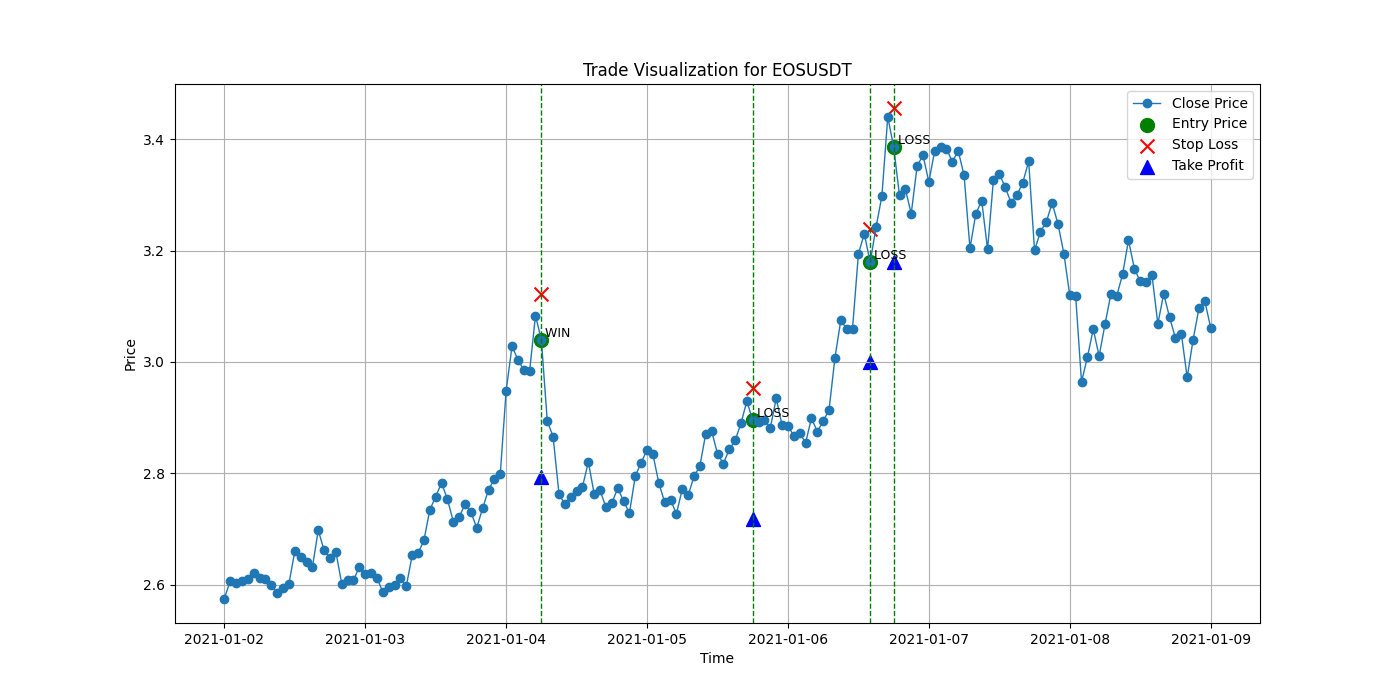
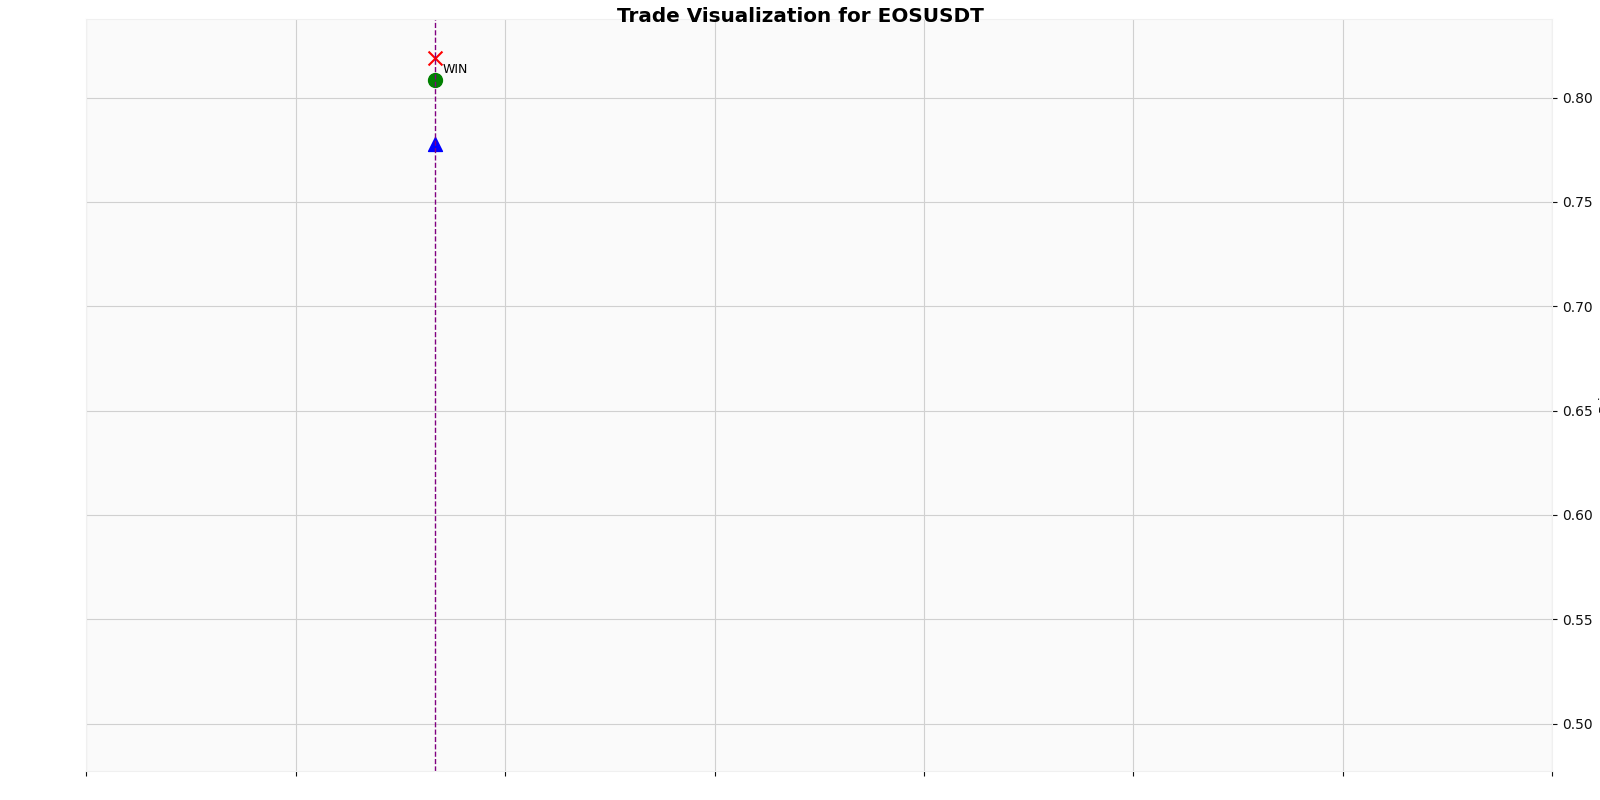
safe point working on entry accuracy - working

diff --git a/strategy_fakeout/backtesting.py b/strategy_fakeout/backtesting.py
@@ -44,17 +44,9 @@ def calculate_exit_profit_short(entry_price, exit_price):
     return (adjusted_entry - adjusted_exit) / adjusted_entry
 
 def backtest_strategy(symbol, timeframe=OHLCV_TIMEFRAME, days=7, client=None, use_random_date=False, swing_lookback=30):
-    # Determine backtesting date range.
-    if use_random_date:
-        start_random = datetime(2021, 1, 1)
-        end_random = datetime(2022, 1, 1)
-        random_seconds = random.randint(0, int((end_random - start_random).total_seconds()))
-        random_end = start_random + timedelta(seconds=random_seconds)
-        end_date = random_end
-        start_date = end_date - timedelta(days=days)
-    else:
-        end_date = datetime.now()
-        start_date = end_date - timedelta(days=days)
+    # Determine backtesting date range using the current date
+    end_date = datetime.now()
+    start_date = end_date - timedelta(days=days)
     
     # Fetch lower timeframe klines.
     klines = client.get_historical_klines(
@@ -181,11 +173,19 @@ def analyze_results(signals, symbol):
     df = pd.DataFrame(signals)
     total_trades = len(df)
     win_rate = len(df[df["outcome"]=="WIN"]) / total_trades * 100
+    # Convert entry_time and exit_time from naive UTC to UTC+11
+    from datetime import timezone, timedelta
+    utc_plus_11 = timezone(timedelta(hours=11))
+    # Assuming the timestamps are in UTC, we localize and then convert
+    df["entry_time"] = pd.to_datetime(df["entry_time"]).dt.tz_localize('UTC').dt.tz_convert(utc_plus_11)
+    df["exit_time"] = pd.to_datetime(df["exit_time"]).dt.tz_localize('UTC').dt.tz_convert(utc_plus_11)
+    
     print(f"--- {symbol} ---")
     print(f"Total Trades: {total_trades}")
     print(f"Win Rate: {win_rate:.2f}%")
     df["profit_pct"] = (df["profit"] * 100).round(2)
-    print(df[["entry_time", "entry", "stop_loss", "take_profit", "exit_time", "exit_price", "profit_pct", "outcome"]])
+    # Include the 'side' column in the printed output
+    print(df[["side", "entry_time", "entry", "stop_loss", "take_profit", "exit_time", "exit_price", "profit_pct", "outcome"]])
 
 def analyze_aggregated_results(all_signals, initial_capital=1000, days=30):
     if not all_signals:
@@ -193,97 +193,46 @@ def analyze_aggregated_results(all_signals, initial_capital=1000, days=30):
         return
     try:
         import config
+        print("\n")  # Added blank line for separation
         print("=== BACKTESTER SETTINGS ===")
         print(f"Timeframe used             : {config.OHLCV_TIMEFRAME}")
-        print(f"Long Take Profit Target    : {config.LONG_TAKE_PROFIT_MULTIPLIER}")
-        print(f"Short Take Profit Target   : {config.SHORT_TAKE_PROFIT_MULTIPLIER}")
-        print(f"Long Stop Loss Multiplier  : {config.LONG_STOP_LOSS_MULTIPLIER}")
-        print(f"Short Stop Loss Multiplier : {config.SHORT_STOP_LOSS_MULTIPLIER}")
-        print(f"Futures Maker Fee         : {config.FUTURES_MAKER_FEE}")
-        print(f"Futures Taker Fee         : {config.FUTURES_TAKER_FEE}")
-        print(f"Slippage Rate              : {config.SLIPPAGE_RATE}")
-        print("="*30)
-        print("=== TECHNICAL SETTINGS ===")
-        print(f"EMA Short Period   : {config.EMA_SHORT}")
-        print(f"EMA Long Period    : {config.EMA_LONG}")
-        print(f"ATR Period         : {config.ATR_PERIOD}")
-        print(f"Minimum ATR %      : {config.MIN_ATR_PCT}")
-        print(f"Trend Strength Th. : {config.TREND_STRENGTH_THRESHOLD}")
         print(f"Backtesting period (days)  : {days}")
         print("="*30)
+        
         df = pd.DataFrame(all_signals)
-        df['profit_pct'] = (df['profit'] * 100).round(2)
-        if 'initial_stop_loss' in df.columns:
-            df.rename(columns={'initial_stop_loss': 'SL'}, inplace=True)
-        elif 'stop_loss' in df.columns:
+        df["profit_pct"] = (df["profit"] * 100).round(2)
+        
+        # Rename columns for consistency
+        if 'stop_loss' in df.columns:
             df.rename(columns={'stop_loss': 'SL'}, inplace=True)
         if 'take_profit' in df.columns:
             df.rename(columns={'take_profit': 'TP'}, inplace=True)
+        if 'entry' in df.columns:
+            df.rename(columns={'entry': 'entry_price'}, inplace=True)
+        
+        # Determine outcome and risk-reward ratio
         df['outcome'] = np.where(df['profit'] > 0, 'WIN', np.where(df['profit'] < 0, 'LOSS', 'BREAKEVEN'))
-        df['risk_reward'] = df.apply(
-            lambda row: (row['TP']-row['entry_price'])/(row['entry_price']-row['SL']) if row['entry_price'] > row['SL'] else (row['entry_price']-row['TP'])/(row['SL']-row['entry_price']),
-            axis=1
-        )
+        df['risk_reward'] = df.apply(lambda row: (row['TP']-row['entry_price'])/(row['entry_price']-row['SL']) 
+                                     if row['entry_price'] > row['SL'] else (row['entry_price']-row['TP'])/(row['SL']-row['entry_price']), axis=1)
+        
         total_trades = len(df)
-        win_trades = df[df['outcome'] == 'WIN']
-        loss_trades = df[df['outcome'] == 'LOSS']
-        avg_win = win_trades['profit_pct'].mean() if not win_trades.empty else 0
-        avg_loss = loss_trades['profit_pct'].mean() if not loss_trades.empty else 0
-        risk_reward = abs(avg_win / avg_loss) if avg_loss != 0 else np.inf
-        total_wins = df[df['outcome'] == 'WIN']['profit'].sum()
-        total_losses = abs(df[df['outcome'] == 'LOSS']['profit'].sum())
-        print(f"Total Wins Sum: {total_wins:.2f}%")  # Debug output
-        print(f"Total Losses Sum: {total_losses:.2f}%")  # Debug output
-        profit_factor = total_wins / total_losses if total_losses > 0 else np.inf
-        max_drawdown = df['drawdown'].min() if 'drawdown' in df.columns else 0
-        final_capital = simulate_capital(all_signals, initial_capital=initial_capital)
-        print("=== Aggregated Report Across All Symbols ===")
-        print(f"Total Trades: {total_trades}")
-        print(f"Win Rate: {len(win_trades) / total_trades:.1%}")
-        print(f"Avg Win: {avg_win:.2f}% | Avg Loss: {avg_loss:.2f}%")
-        print(f"Profit Factor: {profit_factor:.2f}")
-        print(f"Max Drawdown: {max_drawdown * 100:.2f}%")
-        print(f"\nStarting Capital: ${initial_capital}")
-        print(f"Final Capital: ${final_capital:.2f}")
+        win_rate = len(df[df['outcome'] == 'WIN']) / total_trades * 100
         long_trades = len(df[df['side'] == 'long'])
         short_trades = len(df[df['side'] == 'short'])
-        print(f"Long Trades: {long_trades} | Short Trades: {short_trades}")
-        capital_change = final_capital - initial_capital
-        print(f"Capital Change: ${capital_change:.2f}")
-        wins_count = len(df[df['outcome'] == 'WIN'])
-        losses_count = len(df[df['outcome'] == 'LOSS'])
-        print(f"Total Wins: {wins_count}")
-        print(f"Total Losses: {losses_count}")
+        
+        final_capital = simulate_capital(all_signals, initial_capital=initial_capital)
+        
+        print("=== Aggregated Report ===")
+        print(f"Total Trades: {total_trades}")
+        print(f"Win Rate: {win_rate:.2f}%")
+        print(f"Long Trades: {long_trades}, Short Trades: {short_trades}")
+        print(f"Simulation: Starting Capital: ${initial_capital}, Final Capital: ${final_capital:.2f}")
+        
         best_trade = df.loc[df['profit_pct'].idxmax()]
-        print(f"Best Trade: {best_trade['symbol']} trade on {best_trade['entry_time']} with profit {best_trade['profit_pct']:.2f}% (entry: {best_trade['entry_price']}, exit: {best_trade['exit_price']})")
-        pair_profit = df.groupby('symbol')['profit'].sum()
-        best_pair = pair_profit.idxmax()
-        best_pair_profit = pair_profit.max() * 100
-        print(f"Best Performing Pair: {best_pair} with aggregated profit of {best_pair_profit:.2f}%")
-        df['entry_time'] = pd.to_datetime(df['entry_time'])
-        df['exit_time'] = pd.to_datetime(df['exit_time'])
-        df['trade_duration'] = (df['exit_time'] - df['entry_time']).dt.total_seconds() / 60
-        df['trade_duration'] = df['trade_duration'].apply(lambda x: max(x, 5))  # Minimum 1 bar duration
-        avg_duration = df['trade_duration'].mean()
-        max_duration = df['trade_duration'].max()
-        min_duration = df['trade_duration'].min()
-        duration_std = df['trade_duration'].std()
-        avg_risk_reward = df['risk_reward'].mean()
-        print(f"Average Trade Duration: {avg_duration:.2f} minutes")
-        print(f"Max Trade Duration: {max_duration:.2f} minutes")
-        print(f"Min Trade Duration: {min_duration:.2f} minutes")
-        print(f"Trade Duration Std Dev: {duration_std:.2f} minutes")
-        print(f"Average Risk/Reward Ratio: {avg_risk_reward:.2f}")
-        print(f"Duration Percentiles (minutes):")
-        print(f"25th: {df['trade_duration'].quantile(0.25):.1f} | 50th: {df['trade_duration'].quantile(0.5):.1f} | 75th: {df['trade_duration'].quantile(0.75):.1f}")
-        print("\nSample Aggregated Trades:")
-        print(df[['entry_time', 'entry_price', 'SL', 'TP', 'exit_price', 'profit_pct', 'outcome']].head(5))
-        if 'drawdown' in df.columns:
-            df['drawdown_pct'] = df['drawdown'] * 100
-            print("Top 5 Drawdowns:")
-            print(df.nsmallest(5, 'drawdown_pct')[['symbol', 'entry_time', 'drawdown_pct']])
-        invalid_trades = df[(df['trade_duration'] == 5) | (df['trade_duration'] == 300)]
-        print(f"Found {len(invalid_trades)} trades with suspicious durations (5 or 300 minutes)")
+        worst_trade = df.loc[df['profit_pct'].idxmin()]
+        print(f"Best Trade: {best_trade['symbol']} - {best_trade['side']} trade on {best_trade['entry_time']}, Profit: {best_trade['profit_pct']}% (Entry: {best_trade['entry_price']}, Exit: {best_trade['exit_price']})")
+        print(f"Worst Trade: {worst_trade['symbol']} - {worst_trade['side']} trade on {worst_trade['entry_time']}, Profit: {worst_trade['profit_pct']}% (Entry: {worst_trade['entry_price']}, Exit: {worst_trade['exit_price']})")
+        print("=== END OF SUMMARY ===\n")
     except Exception as e:
         print(f"Aggregated analysis error: {str(e)}")
 

diff --git a/strategy_fakeout/trade_visualization.py b/strategy_fakeout/trade_visualization.py
@@ -1,4 +1,5 @@
 #!/usr/bin/env python3
+import mplfinance as mpf
 import matplotlib.pyplot as plt
 import pandas as pd
 import numpy as np
@@ -33,51 +34,65 @@ def visualize_trade_entry(trade, df):
 
 def save_trade_chart_for_symbol(symbol, trades, df):
     """
-    Generates and saves a combined chart for all trades of a given symbol.
+    Generates and saves a combined candlestick chart for all trades of a given symbol.
     Chart is saved in the 'Charts' folder as '<symbol>_chart.png'.
 
     symbol: trading pair
     trades: list of trade dictionaries (with keys: 'entry_time', 'entry', 'stop_loss', 'take_profit', 'outcome')
-    df: DataFrame with price data (datetime index and 'close' column)
+    df: DataFrame with OHLC price data (datetime index and columns: 'open', 'high', 'low', 'close')
     """
     if df.empty:
         print(f"No price data available for {symbol} to plot chart.")
         return
-    
-    plt.figure(figsize=(14, 7))
-    plt.plot(df.index, df['close'], label='Close Price', marker='o', linewidth=1)
 
-    # Plot each trade on the chart
+    # Ensure OHLC columns are numeric
+    for col in ['open', 'high', 'low', 'close']:
+        df[col] = pd.to_numeric(df[col], errors='coerce')
+    df = df.dropna(subset=['open', 'high', 'low', 'close'])
+
+    # Create a copy and rename columns to those expected by mplfinance
+    df_plot = df.copy()
+    df_plot.rename(columns={'open': 'Open', 'high': 'High', 'low': 'Low', 'close': 'Close'}, inplace=True)
+
+    # Plot candlesticks using mplfinance with our new settings
+    fig, ax = mpf.plot(df_plot, type='candle', style='yahoo', title=f"Trade Visualization for {symbol}",
+                         ylabel="Price", returnfig=True, figsize=(16,8),
+                         scale_padding={'left': 0.3, 'right': 0.3, 'top': 0.2, 'bottom': 0.2})
+    main_ax = ax[0]
+
+    # Set x-axis limits explicitly using the index
+    main_ax.set_xlim(df_plot.index[0], df_plot.index[-1])
+    # Rotate x-axis tick labels
+    plt.setp(main_ax.get_xticklabels(), rotation=45, ha='right')
+
+    # Overlay each trade on the candlestick chart
     for idx, trade in enumerate(trades):
         entry_time = trade['entry_time']
         entry_price = trade['entry']
         stop_loss = trade['stop_loss']
         take_profit = trade['take_profit']
         outcome = trade.get('outcome', '')
+        # Draw vertical line at the trade entry time
+        main_ax.axvline(entry_time, color='purple', linestyle='--', linewidth=1)
+        # Overlay markers
+        main_ax.scatter(entry_time, entry_price, color='green', marker='o', s=100,
+                        label='Entry Price' if idx==0 else "")
+        main_ax.scatter(entry_time, stop_loss, color='red', marker='x', s=100,
+                        label='Stop Loss' if idx==0 else "")
+        main_ax.scatter(entry_time, take_profit, color='blue', marker='^', s=100,
+                        label='Take Profit' if idx==0 else "")
+        # Annotate the outcome
+        main_ax.annotate(f"{outcome}", xy=(entry_time, entry_price), xytext=(5, 5),
+                         textcoords='offset points', fontsize=9, color='black')
 
-        # Vertical line marking the trade entry
-        plt.axvline(entry_time, color='green', linestyle='--', linewidth=1)
-        # Plot entry, stop loss and take profit markers
-        plt.scatter(entry_time, entry_price, color='green', marker='o', s=100, label='Entry Price' if idx==0 else "")
-        plt.scatter(entry_time, stop_loss, color='red', marker='x', s=100, label='Stop Loss' if idx==0 else "")
-        plt.scatter(entry_time, take_profit, color='blue', marker='^', s=100, label='Take Profit' if idx==0 else "")
-        # Annotate outcome near the entry point
-        plt.text(entry_time, entry_price, f' {outcome}', fontsize=9, color='black', verticalalignment='bottom')
-
-    plt.title(f"Trade Visualization for {symbol}")
-    plt.xlabel("Time")
-    plt.ylabel("Price")
-    plt.legend()
-    plt.grid(True)
-    
-    # Ensure 'Charts' folder exists
+    # Ensure the 'Charts' folder exists
     charts_folder = 'Charts'
     if not os.path.exists(charts_folder):
         os.makedirs(charts_folder)
 
     filename = os.path.join(charts_folder, f"{symbol}_chart.png")
-    plt.savefig(filename)
-    plt.close()
+    fig.savefig(filename)
+    plt.close(fig)
     print(f"Chart saved for {symbol} in {filename}")
 
 
@@ -85,7 +100,7 @@ if __name__ == "__main__":
     # Create sample price data
     date_range = pd.date_range(start="2023-01-01 09:00", periods=50, freq='15T')
     prices = np.linspace(100, 110, 50)
-    df_sample = pd.DataFrame({'close': prices}, index=date_range)
+    df_sample = pd.DataFrame({'open': prices-1, 'high': prices+1, 'low': prices-2, 'close': prices}, index=date_range)
     
     # Example trade signal list (adjust with your actual trade details)
     sample_trades = [

diff --git a/strategy_fakeout/breakout-strategy.py b/strategy_fakeout/breakout-strategy.py
@@ -1,8 +1,8 @@
 from binance.client import Client
 import pandas as pd
-from config import BINANCE_API_KEY, BINANCE_API_SECRET, OHLCV_TIMEFRAME
+from config import BINANCE_API_KEY, BINANCE_API_SECRET, OHLCV_TIMEFRAME, CAPITAL
 from data_fetch import get_top_volume_pairs
-from backtesting import backtest_strategy, analyze_results
+from backtesting import backtest_strategy, analyze_results, analyze_aggregated_results
 
 # Import the new plotting function
 from trade_visualization import save_trade_chart_for_symbol
@@ -35,7 +35,8 @@ def main():
         else:
             print(f"No valid trades generated for {symbol}")
     
-    # Optionally, aggregated analysis for all symbols can be added here.
+    # Call aggregated analysis after processing all symbols
+    analyze_aggregated_results(all_trades, initial_capital=CAPITAL, days=days)
     print("\nAggregated backtesting completed.")
 
 if __name__ == "__main__":

diff --git a/strategy_fakeout/config.py b/strategy_fakeout/config.py
@@ -31,7 +31,7 @@ RISK_REWARD_RATIO = 3.0
 ATR_PERIOD = 14
 MIN_ATR_PCT = 0.5
 
-CAPITAL = 100000
+CAPITAL = 1000
 RISK_PER_TRADE = 0.10
 LEVERAGE = 10
 ORDER_SIZE_PCT = 0.02
